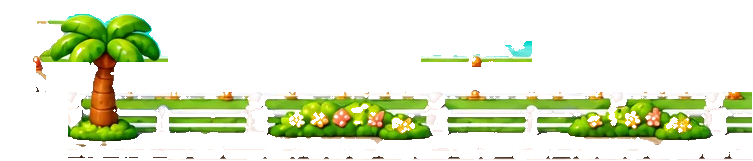
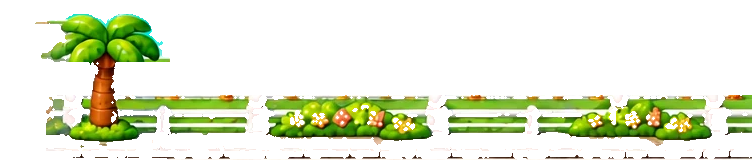
카피공항 예시판: 계류장·활주로 경계 다시 그림, 터미널 눌러도 크기 그대로, 카운터 승무원 고정·책상에 붙임
Claude-Session: https://claude.ai/code/session_015t7mweLLBzEFYGgsGmysr6

diff --git a/js/airport.js b/js/airport.js
@@ -65,7 +65,7 @@ export function openAirport(o) {
   function goOut() { if (!inside) return; inside = false; sfx('pop'); inWorld.hidden = true; outWorld.hidden = false; me.x = me.tx = doorX; me.y = 0; me.then = null; place(); ud.hidden = true; title.textContent = '✈ 카피공항'; scroller.scrollLeft = Math.max(0, me.x - scroller.clientWidth / 2); }
   const canBoard = f => f.phase === 'stay'; // 비행기가 출입구 앞에 다 서고 나서 10초 안에만 탈 수 있다
   const atGate = () => inside && me.x > W * 0.27 && me.x < W * 0.56; // 카운터 옆 출입구 앞
-  function fitCrew() { const hh = 84; inPilot.style.height = hh + 'px'; inAtt.style.height = hh + 'px'; inAtt.style.bottom = Math.round(0.415 * H - 0.42 * hh) + 'px'; } // 카피바라(밍땅꾸리·두두)와 같은 키 + 모자. 카운터 승무원은 허리까지 책상 뒤에 · 기장은 조금 안쪽(작게)
+  function fitCrew() { const hh = 84; inPilot.style.height = hh + 'px'; inAtt.style.height = hh + 'px'; inAtt.style.bottom = Math.round(0.417 * H - 0.5 * hh) + 'px'; } // 카피바라(밍땅꾸리·두두)와 같은 키 + 모자. 카운터 승무원은 허리까지 책상 뒤에 · 기장은 조금 안쪽(작게)
   function openTicket() { const f = flightNow(now()), dep = depAt(now());
     const row = (k, name, desc) => h('button', { class: 'ap-tk', onClick: () => buy(k, name) }, h('b', null, `🎫 ${DEST} ${name}`), h('small', null, desc), h('em', null, `${TICKET[k].toLocaleString()}코인`));
     modal({ title: `🎫 ${DEST} 탑승권`, body: [h('div', { class: 'ap-cnt' }, h('img', { src: 'img/air/att.webp', alt: '' }),

diff --git a/css/app.css b/css/app.css
@@ -3135,12 +3135,12 @@ img.kb-sic { width: 30px; height: 30px; object-fit: contain; display: block; mar
 .ap-parked { position: absolute; top: 55.5%; width: 6.6%; transform: translate(-50%, -100%); z-index: 1; pointer-events: none; }
 .ap-term { position: absolute; bottom: 31%; z-index: 2; padding: 0; border: 0; background: none; cursor: pointer; aspect-ratio: 900 / 682; container-type: inline-size; }
 .ap-term img { width: 100%; height: 100%; display: block; filter: drop-shadow(0 6px 6px rgba(0,0,0,.18)); }
-.ap-term:active { transform: scale(.98); }
+
 .ap-term-t { position: absolute; left: 19%; right: 25%; top: 11%; height: 17%; display: flex; align-items: center; justify-content: center; font: 900 9cqw/1 var(--head); color: #fff; letter-spacing: 1px; text-shadow: 0 0 6px rgba(120, 200, 255, .9), 0 2px 0 #0D2A5C; } /* 현대식 남색 간판 가운데 */
 .ap-crew { position: absolute; bottom: 9%; height: 31%; transform: translateX(-50%); z-index: 3; pointer-events: none; animation: apBob 2.6s ease-in-out infinite; }
 .ap-crew + .ap-crew { animation-delay: -1.3s; }
 .ap-crew.in { bottom: 10%; height: 30%; }
-.ap-world.in .ap-crew:first-of-type { z-index: 2; } /* 카운터 승무원: 책상(ap-desk) 뒤 */
+.ap-world.in .ap-crew:first-of-type { z-index: 2; animation: none; } /* 카운터 승무원: 책상(ap-desk) 뒤 */
 .ap-desk { position: absolute; left: 3.497%; top: 58.333%; width: 17.932%; height: 21.528%; z-index: 3; pointer-events: none; }
 .ap-crew.in.pl { bottom: 17%; z-index: 2; } /* 기장: 출입구 곁 조금 안쪽 */
 @keyframes apBob { 50% { translate: 0 -3px; } }
